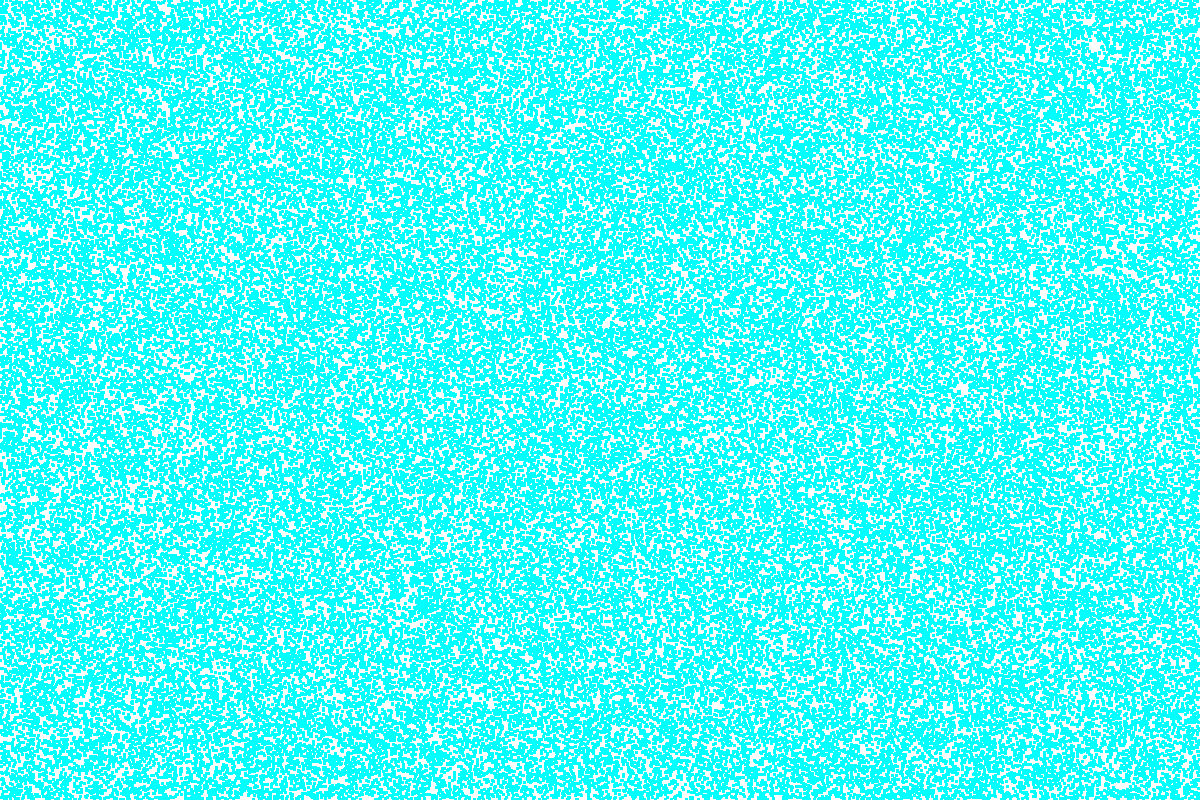
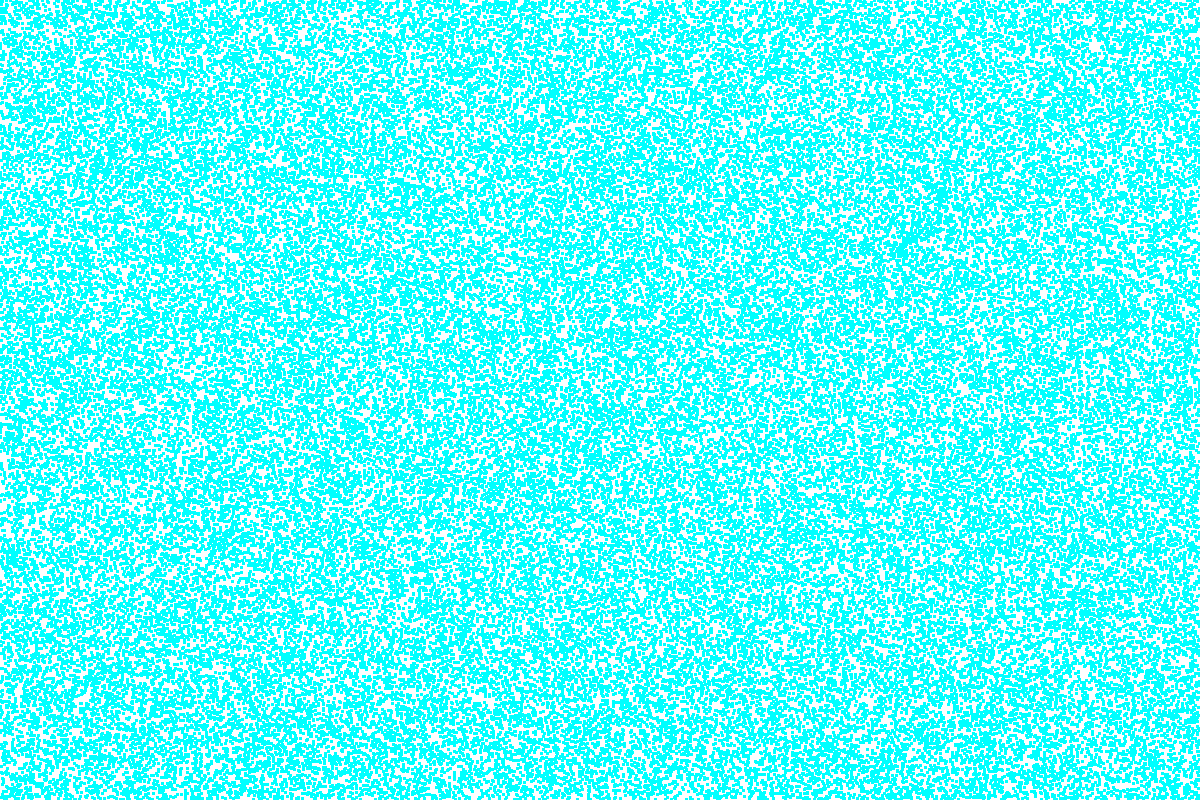
Uploading finished code and images

diff --git a/rds_chinese_character_generator.py b/rds_chinese_character_generator.py
@@ -9,7 +9,7 @@ TEXT = "你好"
 OUTPUT_SIZE = (1200, 800)
 FONT_SIZE = 500
 SUBTLETY = 0.425  # 0.0 very subtle --> 1.0 obvious
-DOT_DENSITY = 0.12  # dot probability per pixel
+DOT_DENSITY = 0.10  # dot probability per pixel
 DOT_SIZE = 3  # 3x3 squares
 MAX_DISPARITY = 16  # pixels
 BLUR_RADIUS = 1.0
@@ -26,7 +26,7 @@ def try_load_font(candidates, size):
         except Exception:
             pass
     print(
-        "[!] No listed CJK fonts found; using default (likely missing Chinese glyphs)."
+        "[!] No listed CJK fonts found; using default (likely missing Chinese character font)."
     )
     return ImageFont.load_default()
 
@@ -63,14 +63,14 @@ def make_text_depth_map(text, size, font_size, subtlety, blur_radius):
 
     arr = np.asarray(img).astype(np.float32) / 255.0
 
-    # Sanity check: make sure we actually drew glyphs
+    # Sanity check: make sure we actually drew the characters
     nonzero_ratio = (arr > 1e-3).mean()
     if nonzero_ratio < 0.001:
         print(
-            "[!] Warning: depth map appears empty. This means the font did not render Chinese glyphs."
+            "[!] Warning: depth map appears empty. This probably means the font did not render the Chinese characters."
         )
         print(
-            "    -> Install a CJK font (e.g., Noto Sans CJK) or update the font path list above."
+            "--> Install a CJK font (e.g., Noto Sans CJK) or update the font path list above."
         )
     else:
         print(f"[i] Depth map OK. Non-zero pixels: {nonzero_ratio:.3%}")
@@ -103,11 +103,30 @@ def draw_square(canvas, x, y, size, color):
     canvas[y0:y1, x0:x1] = color
 
 
+def generate_random_dot_pattern(size, dot_density, dot_size, seed):
+    """Generates a random dot pattern image (no depth/disparity)."""
+    if seed is not None:
+        random.seed(seed)
+        np.random.seed(seed)
+
+    W, H = size
+    canvas = np.full((H, W, 3), 255, dtype=np.uint8)  # white bg
+    mask = np.random.rand(H, W) < dot_density
+
+    for y in range(H):
+        xs = np.where(mask[y])[0]
+        for x in xs:
+            # Draw black dots for the pattern
+            draw_square(canvas, x, y, dot_size, [0, 0, 0])
+
+    return Image.fromarray(canvas)
+
+
 def rds_anaglyph_single(
     depth_map, max_disparity, dot_density, dot_size, seed, mode="anaglyph"
 ):
     """
-    Generate RDS image.
+    Generates an RDS image.
 
     Args:
         mode: "anaglyph" (both red and cyan), "red_only", or "cyan_only"
@@ -140,13 +159,21 @@ def rds_anaglyph_single(
 if __name__ == "__main__":
     depth = make_text_depth_map(TEXT, OUTPUT_SIZE, FONT_SIZE, SUBTLETY, BLUR_RADIUS)
 
-    # Generate anaglyph (both red and cyan)
+    # Generate random dot pattern (no depth)
+    img_pattern = generate_random_dot_pattern(
+        OUTPUT_SIZE, DOT_DENSITY, DOT_SIZE, RANDOM_SEED
+    )
+    out_pattern = "nihao_dot_pattern.png"
+    img_pattern.save(out_pattern)
+    print(f"Saved {out_pattern}")
+
+    # Generate anaglyph (both red and cyan) - default depth
     img_anaglyph = rds_anaglyph_single(
         depth, MAX_DISPARITY, DOT_DENSITY, DOT_SIZE, RANDOM_SEED, mode="anaglyph"
     )
     out_anaglyph = "nihao_rds_subtle.png"
     img_anaglyph.save(out_anaglyph)
-    print(f"[✓] Saved {out_anaglyph}")
+    print(f"Saved {out_anaglyph}")
 
     # Generate red-only version
     img_red = rds_anaglyph_single(
@@ -154,7 +181,7 @@ if __name__ == "__main__":
     )
     out_red = "nihao_rds_red_only.png"
     img_red.save(out_red)
-    print(f"[✓] Saved {out_red}")
+    print(f"Saved {out_red}")
 
     # Generate cyan-only version
     img_cyan = rds_anaglyph_single(
@@ -162,10 +189,27 @@ if __name__ == "__main__":
     )
     out_cyan = "nihao_rds_cyan_only.png"
     img_cyan.save(out_cyan)
-    print(f"[✓] Saved {out_cyan}")
+    print(f"Saved {out_cyan}")
 
     # Generate simple text image (black on white)
     img_text = make_text_image(TEXT, OUTPUT_SIZE, FONT_SIZE)
     out_text = "nihao_text.png"
     img_text.save(out_text)
-    print(f"[✓] Saved {out_text}")
+    print(f"Saved {out_text}")
+
+    # Generate multiple depth variations
+    print("\n[i] Generating depth variations...")
+    depth_variations = [
+        (8, "shallow"),  # shallow depth
+        (16, "medium"),  # medium depth (default)
+        (24, "deep"),  # deep depth
+        (32, "very_deep"),  # very deep depth
+    ]
+
+    for disparity, label in depth_variations:
+        img_var = rds_anaglyph_single(
+            depth, disparity, DOT_DENSITY, DOT_SIZE, RANDOM_SEED, mode="anaglyph"
+        )
+        out_var = f"nihao_rds_{label}_depth.png"
+        img_var.save(out_var)
+        print(f"Saved {out_var} (disparity={disparity}px)")

diff --git a/README.md b/README.md
@@ -1,0 +1,167 @@
+# Random Dot Stereogram (RDS) - Chinese Character Generator
+
+This project generates Random Dot Stereograms (RDS) featuring Chinese characters that create a 3D effect when viewed with red-cyan anaglyph glasses.
+
+## What is a Random Dot Stereogram?
+
+A Random Dot Stereogram (RDS) is a type of stereoscopic image that creates the illusion of depth using random dot patterns. When viewed with red-cyan 3D glasses, certain regions appear to pop out or recede, revealing hidden shapes or text. This project creates RDS images of Chinese characters (currently specified to display "你好").
+
+## Files in This Repository
+
+### Main Script
+- **`rds_chinese_character_generator.py`** - The main Python script that generates all RDS variations
+
+### Generated Output Images
+
+The script generates 9 different images:
+
+1. **`nihao_dot_pattern.png`** - Random dot pattern without any depth (baseline reference)
+2. **`nihao_text.png`** - Simple black text on white background (reference image)
+3. **`nihao_rds_subtle.png`** - Full anaglyph RDS (red + cyan dots together)
+4. **`nihao_rds_red_only.png`** - Red channel only (right eye view)
+5. **`nihao_rds_cyan_only.png`** - Cyan channel only (left eye view)
+6. **`nihao_rds_shallow_depth.png`** - Shallow 3D effect (8px disparity)
+7. **`nihao_rds_medium_depth.png`** - Medium 3D effect (16px disparity)
+8. **`nihao_rds_deep_depth.png`** - Deep 3D effect (24px disparity)
+9. **`nihao_rds_very_deep_depth.png`** - Very deep 3D effect (32px disparity)
+
+## How It Works
+
+### The Process
+
+The RDS generation follows these steps:
+
+1. **Create Depth Map**
+   - Render the Chinese characters onto a grayscale image
+   - Text regions have higher brightness values than the background
+   - Apply optional blur for smoother depth transitions
+   - The "subtlety" parameter controls how bright the text is (0.0 = invisible, 1.0 = maximum)
+
+2. **Generate Random Dots**
+   - Create a random pattern of dots across the entire image
+   - Dots are placed randomly based on the dot density parameter
+   - Each dot is a small square (3x3 pixels by default)
+
+3. **Apply Disparity (Depth Shift)**
+   - For each dot position, calculate the horizontal shift based on the depth map
+   - Brighter regions in the depth map get more shift
+   - Create two layers: cyan dots at base position, red dots shifted horizontally
+   - The shift amount is controlled by the "disparity" parameter
+
+4. **Generate Variations**
+   - Combine red and cyan for anaglyph viewing
+   - Save individual color channels for analysis
+   - Create multiple depth variations by changing the disparity value
+
+### Key Parameters
+
+Located at the top of `rds_chinese_character_generator.py`:
+
+```python
+TEXT = "你好"              # Chinese characters to render
+OUTPUT_SIZE = (1200, 800)  # Image dimensions (width, height)
+FONT_SIZE = 500           # Size of the text
+SUBTLETY = 0.425          # Depth map contrast (0.0 = subtle, 1.0 = obvious)
+DOT_DENSITY = 0.12        # Probability of dot per pixel
+DOT_SIZE = 3              # Size of each dot in pixels (3x3 squares)
+MAX_DISPARITY = 16        # Horizontal shift in pixels
+BLUR_RADIUS = 1.0         # Gaussian blur for depth map smoothing
+RANDOM_SEED = 42          # For reproducible results
+```
+
+### Understanding Subtlety vs Depth
+
+These are two **different** parameters:
+
+- **SUBTLETY** (0.425 by default)
+  - Controls the **contrast** in the depth map
+  - Determines how much the text brightness differs from the background
+  - Lower values = more subtle, harder to see the depth difference
+  - Higher values = more obvious depth separation
+  - Range: 0.0 (no difference) to 1.0 (maximum difference)
+
+- **MAX_DISPARITY** (16 by default)
+  - Controls the **magnitude** of the 3D effect
+  - Determines how many pixels the dots shift horizontally
+  - Lower values = shallow 3D effect, easier to fuse
+  - Higher values = deep 3D effect, more dramatic but harder to view
+  - Typical range: 4-32 pixels
+
+**Together:** The formula `(depth_map - 0.5) * 2.0 * max_disparity` combines both:
+- Subtlety determines the depth map values (how bright the text is)
+- Disparity multiplies those values to create the actual pixel shift
+
+## Installation & Usage
+
+### Requirements
+
+```bash
+pip install pillow numpy
+```
+
+### Running the Script
+
+Simply run:
+
+```bash
+python rds_chinese_character_generator.py
+```
+
+The script will generate all 9 output images in the current directory.
+
+### Customization
+
+Edit the parameters at the top of the script to customize:
+- Change `TEXT` to different Chinese characters
+- Adjust `SUBTLETY` to make the depth more/less obvious
+- Modify `MAX_DISPARITY` for different depth strengths
+- Change `DOT_DENSITY` for more/fewer dots
+- Update `DOT_SIZE` for larger/smaller dots
+
+### Font Requirements
+
+The script attempts to use common Chinese fonts:
+- **Windows**: Microsoft YaHei (msyh.ttc), SimHei (simhei.ttf)
+- **macOS**: PingFang, Hiragino Sans GB
+
+If no Chinese font is found, it will use the default font (which may not display Chinese characters correctly). Install a CJK (Chinese-Japanese-Korean) font if needed.
+
+## Viewing the Results
+
+### With Red-Cyan Glasses
+1. Put on red-cyan anaglyph 3D glasses
+2. View the `nihao_rds_*.png` images
+3. The Chinese characters should appear to float in 3D space
+
+### Without Glasses
+- Compare the red-only and cyan-only images to see the horizontal shift
+- The dot pattern image shows the baseline random pattern
+- The text image provides a clear reference of what the hidden text looks like
+
+### Depth Variations
+Try viewing the different depth files to see how disparity affects the 3D effect:
+- Shallow depth (8px) is easier to fuse but less dramatic
+- Deep depth (32px) is more impressive but may be harder to see
+
+## Technical Details
+
+### Anaglyph Method
+- Uses **crossed disparity** for the standard red-left/cyan-right glasses
+- Red channel = right eye view (dots shifted right in text regions)
+- Cyan channels (G+B) = left eye view (dots at base position)
+- Your brain fuses the two views to perceive depth
+
+### Dot Generation
+- Each dot is deterministic based on `RANDOM_SEED`
+- Dots are 3x3 pixel squares by default
+- White background with colored dots for better visibility
+
+## License
+
+This is an educational project for understanding stereoscopic vision and depth perception.
+
+---
+
+**Created for**: Psych 30 @ Stanford | Fall 2025  
+**Topic**: Random Dot Stereograms and Depth Perception
+**Author**: Chris Gu
